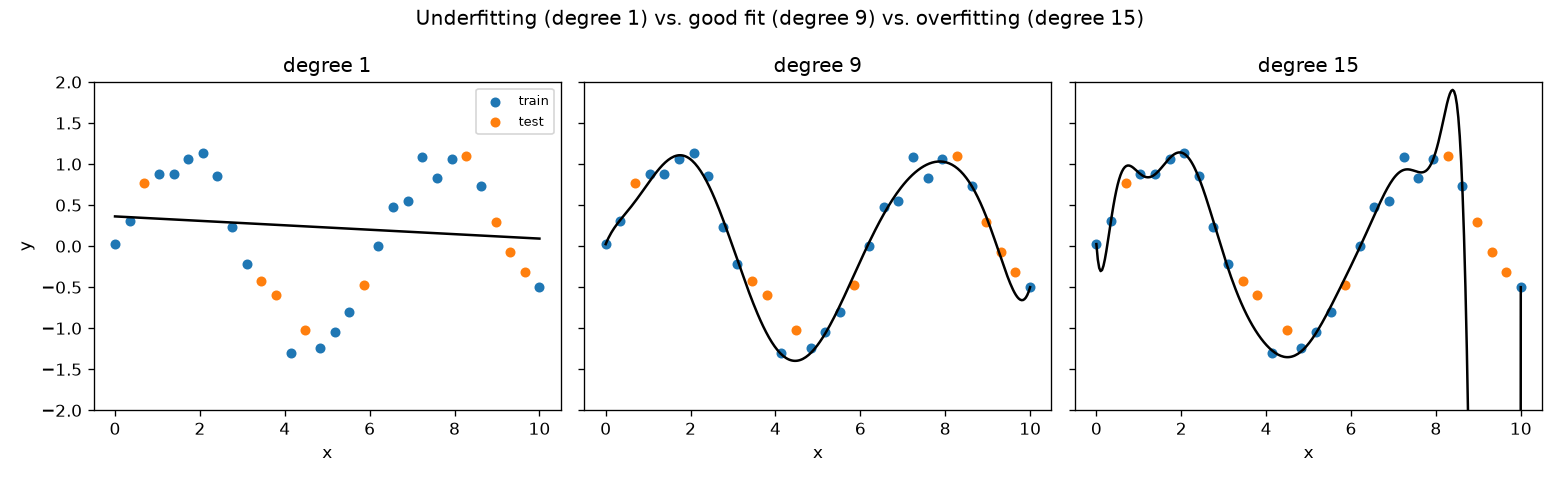
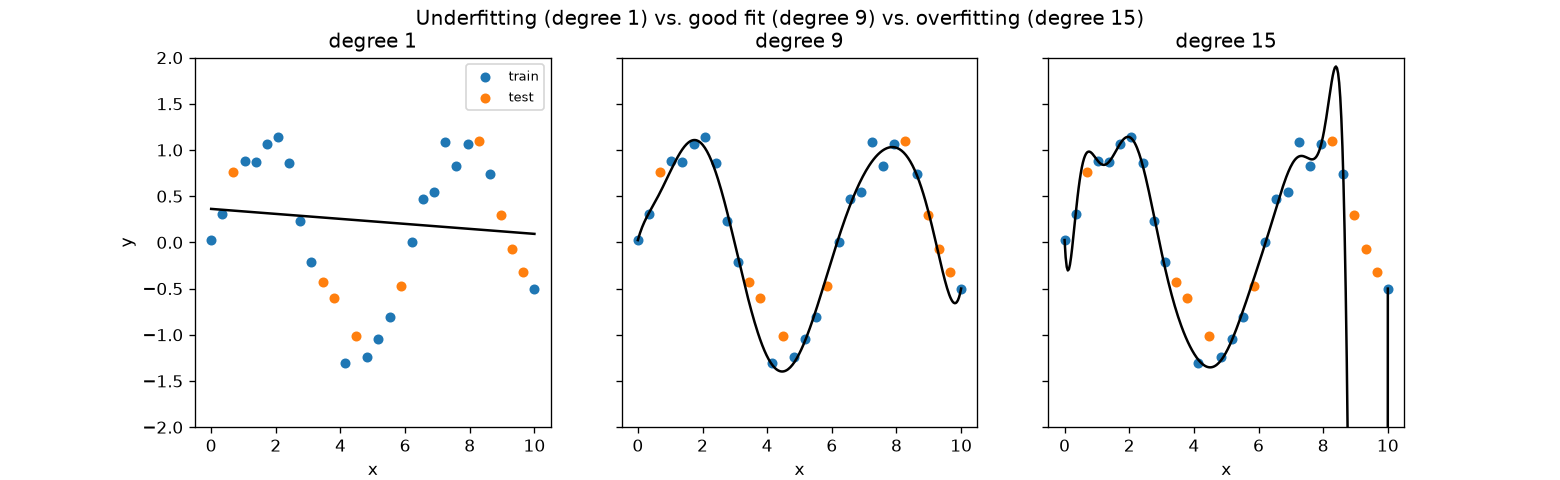
Fix code/asset mismatch in Matplotlib and Plotly chapters
Both chapters' committed assets had a title, axis labels, or trace
colors that didn't appear anywhere in the code shown to produce them -
the shown code could not have generated the committed image. Added
the missing suptitle/axis labels (Matplotlib) and title/axis
titles/colors (Plotly) to the code, then regenerated both assets from
that corrected code so code and image are now actually consistent.

diff --git a/data-visualization/assets/plotly-latency-anomaly.html b/data-visualization/assets/plotly-latency-anomaly.html
@@ -2,6 +2,6 @@
 <head><meta charset="utf-8" /></head>
 <body>
     <div style="height:100%; width:100%;">                        <script>window.PlotlyConfig = {MathJaxConfig: 'local'};</script>
-        <script charset="utf-8" src="https://cdn.plot.ly/plotly-3.7.0.min.js" integrity="sha256-jvTGqxNp8AGWEcvNLVuKr+8j5dGe9Yw51LQkmDH+IYA=" crossorigin="anonymous"></script>                <div id="799009b2-75b5-416c-ab55-01039f312747" class="plotly-graph-div" style="height:100%; width:100%;"></div>            <script>                window.PLOTLYENV=window.PLOTLYENV || {};                                if (document.getElementById("799009b2-75b5-416c-ab55-01039f312747")) {                    Plotly.newPlot(                        "799009b2-75b5-416c-ab55-01039f312747",                        [{"mode":"lines+markers","name":"latency (ms)","x":[0,1,2,3,4,5,6,7,8,9,10],"y":[100,102,98,101,99,103,97,100,102,99,140],"type":"scatter"},{"line":{"color":"red","dash":"dash"},"mode":"lines","name":"mean + 3 std","x":[0,1,2,3,4,5,6,7,8,9,10],"y":[105.83585215987999,105.83585215987999,105.83585215987999,105.83585215987999,105.83585215987999,105.83585215987999,105.83585215987999,105.83585215987999,105.83585215987999,105.83585215987999,105.83585215987999],"type":"scatter"},{"line":{"color":"red","dash":"dash"},"mode":"lines","name":"mean - 3 std","x":[0,1,2,3,4,5,6,7,8,9,10],"y":[94.36414784012,94.36414784012,94.36414784012,94.36414784012,94.36414784012,94.36414784012,94.36414784012,94.36414784012,94.36414784012,94.36414784012,94.36414784012],"type":"scatter"},{"marker":{"color":"orange","size":14,"symbol":"x"},"mode":"markers","name":"anomaly (z=20.9)","x":[10],"y":[140],"type":"scatter"}],                        {"template":{"data":{"histogram2dcontour":[{"type":"histogram2dcontour","colorbar":{"outlinewidth":0,"ticks":""},"colorscale":[[0.0,"#0d0887"],[0.1111111111111111,"#46039f"],[0.2222222222222222,"#7201a8"],[0.3333333333333333,"#9c179e"],[0.4444444444444444,"#bd3786"],[0.5555555555555556,"#d8576b"],[0.6666666666666666,"#ed7953"],[0.7777777777777778,"#fb9f3a"],[0.8888888888888888,"#fdca26"],[1.0,"#f0f921"]]}],"choropleth":[{"type":"choropleth","colorbar":{"outlinewidth":0,"ticks":""}}],"histogram2d":[{"type":"histogram2d","colorbar":{"outlinewidth":0,"ticks":""},"colorscale":[[0.0,"#0d0887"],[0.1111111111111111,"#46039f"],[0.2222222222222222,"#7201a8"],[0.3333333333333333,"#9c179e"],[0.4444444444444444,"#bd3786"],[0.5555555555555556,"#d8576b"],[0.6666666666666666,"#ed7953"],[0.7777777777777778,"#fb9f3a"],[0.8888888888888888,"#fdca26"],[1.0,"#f0f921"]]}],"heatmap":[{"type":"heatmap","colorbar":{"outlinewidth":0,"ticks":""},"colorscale":[[0.0,"#0d0887"],[0.1111111111111111,"#46039f"],[0.2222222222222222,"#7201a8"],[0.3333333333333333,"#9c179e"],[0.4444444444444444,"#bd3786"],[0.5555555555555556,"#d8576b"],[0.6666666666666666,"#ed7953"],[0.7777777777777778,"#fb9f3a"],[0.8888888888888888,"#fdca26"],[1.0,"#f0f921"]]}],"contourcarpet":[{"type":"contourcarpet","colorbar":{"outlinewidth":0,"ticks":""}}],"contour":[{"type":"contour","colorbar":{"outlinewidth":0,"ticks":""},"colorscale":[[0.0,"#0d0887"],[0.1111111111111111,"#46039f"],[0.2222222222222222,"#7201a8"],[0.3333333333333333,"#9c179e"],[0.4444444444444444,"#bd3786"],[0.5555555555555556,"#d8576b"],[0.6666666666666666,"#ed7953"],[0.7777777777777778,"#fb9f3a"],[0.8888888888888888,"#fdca26"],[1.0,"#f0f921"]]}],"surface":[{"type":"surface","colorbar":{"outlinewidth":0,"ticks":""},"colorscale":[[0.0,"#0d0887"],[0.1111111111111111,"#46039f"],[0.2222222222222222,"#7201a8"],[0.3333333333333333,"#9c179e"],[0.4444444444444444,"#bd3786"],[0.5555555555555556,"#d8576b"],[0.6666666666666666,"#ed7953"],[0.7777777777777778,"#fb9f3a"],[0.8888888888888888,"#fdca26"],[1.0,"#f0f921"]]}],"mesh3d":[{"type":"mesh3d","colorbar":{"outlinewidth":0,"ticks":""}}],"scatter":[{"fillpattern":{"fillmode":"overlay","size":10,"solidity":0.2},"type":"scatter"}],"parcoords":[{"type":"parcoords","line":{"colorbar":{"outlinewidth":0,"ticks":""}}}],"scatterpolargl":[{"type":"scatterpolargl","marker":{"colorbar":{"outlinewidth":0,"ticks":""}}}],"bar":[{"error_x":{"color":"#2a3f5f"},"error_y":{"color":"#2a3f5f"},"marker":{"line":{"color":"#E5ECF6","width":0.5},"pattern":{"fillmode":"overlay","size":10,"solidity":0.2}},"type":"bar"}],"scattergeo":[{"type":"scattergeo","marker":{"colorbar":{"outlinewidth":0,"ticks":""}}}],"scatterpolar":[{"type":"scatterpolar","marker":{"colorbar":{"outlinewidth":0,"ticks":""}}}],"histogram":[{"marker":{"pattern":{"fillmode":"overlay","size":10,"solidity":0.2}},"type":"histogram"}],"scattergl":[{"type":"scattergl","marker":{"colorbar":{"outlinewidth":0,"ticks":""}}}],"scatter3d":[{"type":"scatter3d","line":{"colorbar":{"outlinewidth":0,"ticks":""}},"marker":{"colorbar":{"outlinewidth":0,"ticks":""}}}],"scattermap":[{"type":"scattermap","marker":{"colorbar":{"outlinewidth":0,"ticks":""}}}],"scattermapbox":[{"type":"scattermapbox","marker":{"colorbar":{"outlinewidth":0,"ticks":""}}}],"scatterternary":[{"type":"scatterternary","marker":{"colorbar":{"outlinewidth":0,"ticks":""}}}],"scattercarpet":[{"type":"scattercarpet","marker":{"colorbar":{"outlinewidth":0,"ticks":""}}}],"carpet":[{"aaxis":{"endlinecolor":"#2a3f5f","gridcolor":"white","linecolor":"white","minorgridcolor":"white","startlinecolor":"#2a3f5f"},"baxis":{"endlinecolor":"#2a3f5f","gridcolor":"white","linecolor":"white","minorgridcolor":"white","startlinecolor":"#2a3f5f"},"type":"carpet"}],"table":[{"cells":{"fill":{"color":"#EBF0F8"},"line":{"color":"white"}},"header":{"fill":{"color":"#C8D4E3"},"line":{"color":"white"}},"type":"table"}],"barpolar":[{"marker":{"line":{"color":"#E5ECF6","width":0.5},"pattern":{"fillmode":"overlay","size":10,"solidity":0.2}},"type":"barpolar"}],"pie":[{"automargin":true,"type":"pie"}]},"layout":{"autotypenumbers":"strict","colorway":["#636efa","#EF553B","#00cc96","#ab63fa","#FFA15A","#19d3f3","#FF6692","#B6E880","#FF97FF","#FECB52"],"font":{"color":"#2a3f5f"},"hovermode":"closest","hoverlabel":{"align":"left"},"paper_bgcolor":"white","plot_bgcolor":"#E5ECF6","polar":{"bgcolor":"#E5ECF6","angularaxis":{"gridcolor":"white","linecolor":"white","ticks":""},"radialaxis":{"gridcolor":"white","linecolor":"white","ticks":""}},"ternary":{"bgcolor":"#E5ECF6","aaxis":{"gridcolor":"white","linecolor":"white","ticks":""},"baxis":{"gridcolor":"white","linecolor":"white","ticks":""},"caxis":{"gridcolor":"white","linecolor":"white","ticks":""}},"coloraxis":{"colorbar":{"outlinewidth":0,"ticks":""}},"colorscale":{"sequential":[[0.0,"#0d0887"],[0.1111111111111111,"#46039f"],[0.2222222222222222,"#7201a8"],[0.3333333333333333,"#9c179e"],[0.4444444444444444,"#bd3786"],[0.5555555555555556,"#d8576b"],[0.6666666666666666,"#ed7953"],[0.7777777777777778,"#fb9f3a"],[0.8888888888888888,"#fdca26"],[1.0,"#f0f921"]],"sequentialminus":[[0.0,"#0d0887"],[0.1111111111111111,"#46039f"],[0.2222222222222222,"#7201a8"],[0.3333333333333333,"#9c179e"],[0.4444444444444444,"#bd3786"],[0.5555555555555556,"#d8576b"],[0.6666666666666666,"#ed7953"],[0.7777777777777778,"#fb9f3a"],[0.8888888888888888,"#fdca26"],[1.0,"#f0f921"]],"diverging":[[0,"#8e0152"],[0.1,"#c51b7d"],[0.2,"#de77ae"],[0.3,"#f1b6da"],[0.4,"#fde0ef"],[0.5,"#f7f7f7"],[0.6,"#e6f5d0"],[0.7,"#b8e186"],[0.8,"#7fbc41"],[0.9,"#4d9221"],[1,"#276419"]]},"xaxis":{"gridcolor":"white","linecolor":"white","ticks":"","title":{"standoff":15},"zerolinecolor":"white","automargin":true,"zerolinewidth":2},"yaxis":{"gridcolor":"white","linecolor":"white","ticks":"","title":{"standoff":15},"zerolinecolor":"white","automargin":true,"zerolinewidth":2},"scene":{"xaxis":{"backgroundcolor":"#E5ECF6","gridcolor":"white","linecolor":"white","showbackground":true,"ticks":"","zerolinecolor":"white","gridwidth":2},"yaxis":{"backgroundcolor":"#E5ECF6","gridcolor":"white","linecolor":"white","showbackground":true,"ticks":"","zerolinecolor":"white","gridwidth":2},"zaxis":{"backgroundcolor":"#E5ECF6","gridcolor":"white","linecolor":"white","showbackground":true,"ticks":"","zerolinecolor":"white","gridwidth":2}},"shapedefaults":{"line":{"color":"#2a3f5f"}},"annotationdefaults":{"arrowcolor":"#2a3f5f","arrowhead":0,"arrowwidth":1},"geo":{"bgcolor":"white","landcolor":"#E5ECF6","subunitcolor":"white","showland":true,"showlakes":true,"lakecolor":"white"},"title":{"x":0.05},"mapbox":{"style":"light"}}},"title":{"text":"Request latency over time, with a 3-sigma anomaly threshold"},"xaxis":{"title":{"text":"request index"}},"yaxis":{"title":{"text":"latency (ms)"}}},                        {"responsive": true}                    )                };            </script>        </div>
+        <script charset="utf-8" src="https://cdn.plot.ly/plotly-3.7.0.min.js" integrity="sha256-jvTGqxNp8AGWEcvNLVuKr+8j5dGe9Yw51LQkmDH+IYA=" crossorigin="anonymous"></script>                <div id="3908815a-528b-4075-8c91-e0fe9767982c" class="plotly-graph-div" style="height:100%; width:100%;"></div>            <script>                window.PLOTLYENV=window.PLOTLYENV || {};                                if (document.getElementById("3908815a-528b-4075-8c91-e0fe9767982c")) {                    Plotly.newPlot(                        "3908815a-528b-4075-8c91-e0fe9767982c",                        [{"mode":"lines+markers","name":"latency (ms)","x":[0,1,2,3,4,5,6,7,8,9,10],"y":[100,102,98,101,99,103,97,100,102,99,140],"type":"scatter"},{"line":{"color":"red","dash":"dash"},"mode":"lines","name":"mean + 3 std","x":[0,1,2,3,4,5,6,7,8,9,10],"y":[105.83585215987999,105.83585215987999,105.83585215987999,105.83585215987999,105.83585215987999,105.83585215987999,105.83585215987999,105.83585215987999,105.83585215987999,105.83585215987999,105.83585215987999],"type":"scatter"},{"line":{"color":"red","dash":"dash"},"mode":"lines","name":"mean - 3 std","x":[0,1,2,3,4,5,6,7,8,9,10],"y":[94.36414784012,94.36414784012,94.36414784012,94.36414784012,94.36414784012,94.36414784012,94.36414784012,94.36414784012,94.36414784012,94.36414784012,94.36414784012],"type":"scatter"},{"marker":{"color":"orange","size":14,"symbol":"x"},"mode":"markers","name":"anomaly (z=20.9)","x":[10],"y":[140],"type":"scatter"}],                        {"template":{"data":{"histogram2dcontour":[{"type":"histogram2dcontour","colorbar":{"outlinewidth":0,"ticks":""},"colorscale":[[0.0,"#0d0887"],[0.1111111111111111,"#46039f"],[0.2222222222222222,"#7201a8"],[0.3333333333333333,"#9c179e"],[0.4444444444444444,"#bd3786"],[0.5555555555555556,"#d8576b"],[0.6666666666666666,"#ed7953"],[0.7777777777777778,"#fb9f3a"],[0.8888888888888888,"#fdca26"],[1.0,"#f0f921"]]}],"choropleth":[{"type":"choropleth","colorbar":{"outlinewidth":0,"ticks":""}}],"histogram2d":[{"type":"histogram2d","colorbar":{"outlinewidth":0,"ticks":""},"colorscale":[[0.0,"#0d0887"],[0.1111111111111111,"#46039f"],[0.2222222222222222,"#7201a8"],[0.3333333333333333,"#9c179e"],[0.4444444444444444,"#bd3786"],[0.5555555555555556,"#d8576b"],[0.6666666666666666,"#ed7953"],[0.7777777777777778,"#fb9f3a"],[0.8888888888888888,"#fdca26"],[1.0,"#f0f921"]]}],"heatmap":[{"type":"heatmap","colorbar":{"outlinewidth":0,"ticks":""},"colorscale":[[0.0,"#0d0887"],[0.1111111111111111,"#46039f"],[0.2222222222222222,"#7201a8"],[0.3333333333333333,"#9c179e"],[0.4444444444444444,"#bd3786"],[0.5555555555555556,"#d8576b"],[0.6666666666666666,"#ed7953"],[0.7777777777777778,"#fb9f3a"],[0.8888888888888888,"#fdca26"],[1.0,"#f0f921"]]}],"contourcarpet":[{"type":"contourcarpet","colorbar":{"outlinewidth":0,"ticks":""}}],"contour":[{"type":"contour","colorbar":{"outlinewidth":0,"ticks":""},"colorscale":[[0.0,"#0d0887"],[0.1111111111111111,"#46039f"],[0.2222222222222222,"#7201a8"],[0.3333333333333333,"#9c179e"],[0.4444444444444444,"#bd3786"],[0.5555555555555556,"#d8576b"],[0.6666666666666666,"#ed7953"],[0.7777777777777778,"#fb9f3a"],[0.8888888888888888,"#fdca26"],[1.0,"#f0f921"]]}],"surface":[{"type":"surface","colorbar":{"outlinewidth":0,"ticks":""},"colorscale":[[0.0,"#0d0887"],[0.1111111111111111,"#46039f"],[0.2222222222222222,"#7201a8"],[0.3333333333333333,"#9c179e"],[0.4444444444444444,"#bd3786"],[0.5555555555555556,"#d8576b"],[0.6666666666666666,"#ed7953"],[0.7777777777777778,"#fb9f3a"],[0.8888888888888888,"#fdca26"],[1.0,"#f0f921"]]}],"mesh3d":[{"type":"mesh3d","colorbar":{"outlinewidth":0,"ticks":""}}],"scatter":[{"fillpattern":{"fillmode":"overlay","size":10,"solidity":0.2},"type":"scatter"}],"parcoords":[{"type":"parcoords","line":{"colorbar":{"outlinewidth":0,"ticks":""}}}],"scatterpolargl":[{"type":"scatterpolargl","marker":{"colorbar":{"outlinewidth":0,"ticks":""}}}],"bar":[{"error_x":{"color":"#2a3f5f"},"error_y":{"color":"#2a3f5f"},"marker":{"line":{"color":"#E5ECF6","width":0.5},"pattern":{"fillmode":"overlay","size":10,"solidity":0.2}},"type":"bar"}],"scattergeo":[{"type":"scattergeo","marker":{"colorbar":{"outlinewidth":0,"ticks":""}}}],"scatterpolar":[{"type":"scatterpolar","marker":{"colorbar":{"outlinewidth":0,"ticks":""}}}],"histogram":[{"marker":{"pattern":{"fillmode":"overlay","size":10,"solidity":0.2}},"type":"histogram"}],"scattergl":[{"type":"scattergl","marker":{"colorbar":{"outlinewidth":0,"ticks":""}}}],"scatter3d":[{"type":"scatter3d","line":{"colorbar":{"outlinewidth":0,"ticks":""}},"marker":{"colorbar":{"outlinewidth":0,"ticks":""}}}],"scattermap":[{"type":"scattermap","marker":{"colorbar":{"outlinewidth":0,"ticks":""}}}],"scattermapbox":[{"type":"scattermapbox","marker":{"colorbar":{"outlinewidth":0,"ticks":""}}}],"scatterternary":[{"type":"scatterternary","marker":{"colorbar":{"outlinewidth":0,"ticks":""}}}],"scattercarpet":[{"type":"scattercarpet","marker":{"colorbar":{"outlinewidth":0,"ticks":""}}}],"carpet":[{"aaxis":{"endlinecolor":"#2a3f5f","gridcolor":"white","linecolor":"white","minorgridcolor":"white","startlinecolor":"#2a3f5f"},"baxis":{"endlinecolor":"#2a3f5f","gridcolor":"white","linecolor":"white","minorgridcolor":"white","startlinecolor":"#2a3f5f"},"type":"carpet"}],"table":[{"cells":{"fill":{"color":"#EBF0F8"},"line":{"color":"white"}},"header":{"fill":{"color":"#C8D4E3"},"line":{"color":"white"}},"type":"table"}],"barpolar":[{"marker":{"line":{"color":"#E5ECF6","width":0.5},"pattern":{"fillmode":"overlay","size":10,"solidity":0.2}},"type":"barpolar"}],"pie":[{"automargin":true,"type":"pie"}]},"layout":{"autotypenumbers":"strict","colorway":["#636efa","#EF553B","#00cc96","#ab63fa","#FFA15A","#19d3f3","#FF6692","#B6E880","#FF97FF","#FECB52"],"font":{"color":"#2a3f5f"},"hovermode":"closest","hoverlabel":{"align":"left"},"paper_bgcolor":"white","plot_bgcolor":"#E5ECF6","polar":{"bgcolor":"#E5ECF6","angularaxis":{"gridcolor":"white","linecolor":"white","ticks":""},"radialaxis":{"gridcolor":"white","linecolor":"white","ticks":""}},"ternary":{"bgcolor":"#E5ECF6","aaxis":{"gridcolor":"white","linecolor":"white","ticks":""},"baxis":{"gridcolor":"white","linecolor":"white","ticks":""},"caxis":{"gridcolor":"white","linecolor":"white","ticks":""}},"coloraxis":{"colorbar":{"outlinewidth":0,"ticks":""}},"colorscale":{"sequential":[[0.0,"#0d0887"],[0.1111111111111111,"#46039f"],[0.2222222222222222,"#7201a8"],[0.3333333333333333,"#9c179e"],[0.4444444444444444,"#bd3786"],[0.5555555555555556,"#d8576b"],[0.6666666666666666,"#ed7953"],[0.7777777777777778,"#fb9f3a"],[0.8888888888888888,"#fdca26"],[1.0,"#f0f921"]],"sequentialminus":[[0.0,"#0d0887"],[0.1111111111111111,"#46039f"],[0.2222222222222222,"#7201a8"],[0.3333333333333333,"#9c179e"],[0.4444444444444444,"#bd3786"],[0.5555555555555556,"#d8576b"],[0.6666666666666666,"#ed7953"],[0.7777777777777778,"#fb9f3a"],[0.8888888888888888,"#fdca26"],[1.0,"#f0f921"]],"diverging":[[0,"#8e0152"],[0.1,"#c51b7d"],[0.2,"#de77ae"],[0.3,"#f1b6da"],[0.4,"#fde0ef"],[0.5,"#f7f7f7"],[0.6,"#e6f5d0"],[0.7,"#b8e186"],[0.8,"#7fbc41"],[0.9,"#4d9221"],[1,"#276419"]]},"xaxis":{"gridcolor":"white","linecolor":"white","ticks":"","title":{"standoff":15},"zerolinecolor":"white","automargin":true,"zerolinewidth":2},"yaxis":{"gridcolor":"white","linecolor":"white","ticks":"","title":{"standoff":15},"zerolinecolor":"white","automargin":true,"zerolinewidth":2},"scene":{"xaxis":{"backgroundcolor":"#E5ECF6","gridcolor":"white","linecolor":"white","showbackground":true,"ticks":"","zerolinecolor":"white","gridwidth":2},"yaxis":{"backgroundcolor":"#E5ECF6","gridcolor":"white","linecolor":"white","showbackground":true,"ticks":"","zerolinecolor":"white","gridwidth":2},"zaxis":{"backgroundcolor":"#E5ECF6","gridcolor":"white","linecolor":"white","showbackground":true,"ticks":"","zerolinecolor":"white","gridwidth":2}},"shapedefaults":{"line":{"color":"#2a3f5f"}},"annotationdefaults":{"arrowcolor":"#2a3f5f","arrowhead":0,"arrowwidth":1},"geo":{"bgcolor":"white","landcolor":"#E5ECF6","subunitcolor":"white","showland":true,"showlakes":true,"lakecolor":"white"},"title":{"x":0.05},"mapbox":{"style":"light"}}},"title":{"text":"Request latency over time, with a 3-sigma anomaly threshold"},"xaxis":{"title":{"text":"request index"}},"yaxis":{"title":{"text":"latency (ms)"}}},                        {"responsive": true}                    )                };            </script>        </div>
 </body>
 </html>

diff --git a/data-visualization/plotly.md b/data-visualization/plotly.md
@@ -41,12 +41,17 @@ upper, lower = mean + 3 * std, mean - 3 * std
 
 fig = go.Figure()
 fig.add_trace(go.Scatter(x=x, y=all_values, mode="lines+markers", name="latency (ms)"))
-fig.add_trace(go.Scatter(x=x, y=[upper] * len(x), mode="lines", name="mean + 3 std", line=dict(dash="dash")))
-fig.add_trace(go.Scatter(x=x, y=[lower] * len(x), mode="lines", name="mean - 3 std", line=dict(dash="dash")))
-fig.add_trace(go.Scatter(x=[x[-1]], y=[new_value], mode="markers", name="anomaly (z=20.9)", marker=dict(size=14, symbol="x")))
+fig.add_trace(go.Scatter(x=x, y=[upper] * len(x), mode="lines", name="mean + 3 std", line=dict(dash="dash", color="red")))
+fig.add_trace(go.Scatter(x=x, y=[lower] * len(x), mode="lines", name="mean - 3 std", line=dict(dash="dash", color="red")))
+fig.add_trace(go.Scatter(x=[x[-1]], y=[new_value], mode="markers", name="anomaly (z=20.9)", marker=dict(size=14, symbol="x", color="orange")))
+fig.update_layout(
+    title="Request latency over time, with a 3-sigma anomaly threshold",
+    xaxis_title="request index",
+    yaxis_title="latency (ms)",
+)
 
-fig.write_image("latency.png")               # static export, embedded below
-fig.write_html("latency.html", include_plotlyjs="cdn")  # the actual interactive version
+fig.write_image("assets/plotly-latency-anomaly.png")               # static export, embedded below
+fig.write_html("assets/plotly-latency-anomaly.html", include_plotlyjs="cdn")  # the actual interactive version
 ```
 
 ![Line chart of 11 request latencies. Ten cluster tightly between roughly 97 and 103ms, within red dashed threshold lines at mean plus or minus 3 standard deviations, around 94.4 and 105.8. The eleventh point spikes to 140ms, marked with an orange X labeled "anomaly z=20.9", far above the upper threshold line.](assets/plotly-latency-anomaly.png)

diff --git a/data-visualization/matplotlib.md b/data-visualization/matplotlib.md
@@ -45,9 +45,12 @@ for ax, degree in zip(axes, [1, 9, 15]):
     ax.plot(x_smooth, y_smooth, color="black", linewidth=1.5)
     ax.set_ylim(-2, 2)
     ax.set_title(f"degree {degree}")
+    ax.set_xlabel("x")
 
+axes[0].set_ylabel("y")
 axes[0].legend(loc="upper right", fontsize=8)
-fig.savefig("bias-variance-fit.png", dpi=120)
+fig.suptitle("Underfitting (degree 1) vs. good fit (degree 9) vs. overfitting (degree 15)")
+fig.savefig("assets/matplotlib-bias-variance-fit.png", dpi=120)
 ```
 
 ![Three side-by-side plots showing a degree-1 polynomial as a nearly flat line missing the sine curve entirely, a degree-9 polynomial tracking the sine curve closely, and a degree-15 polynomial tracking the curve well through most of the range but swinging wildly near x=8-9, close to the edge of the training data.](assets/matplotlib-bias-variance-fit.png)
